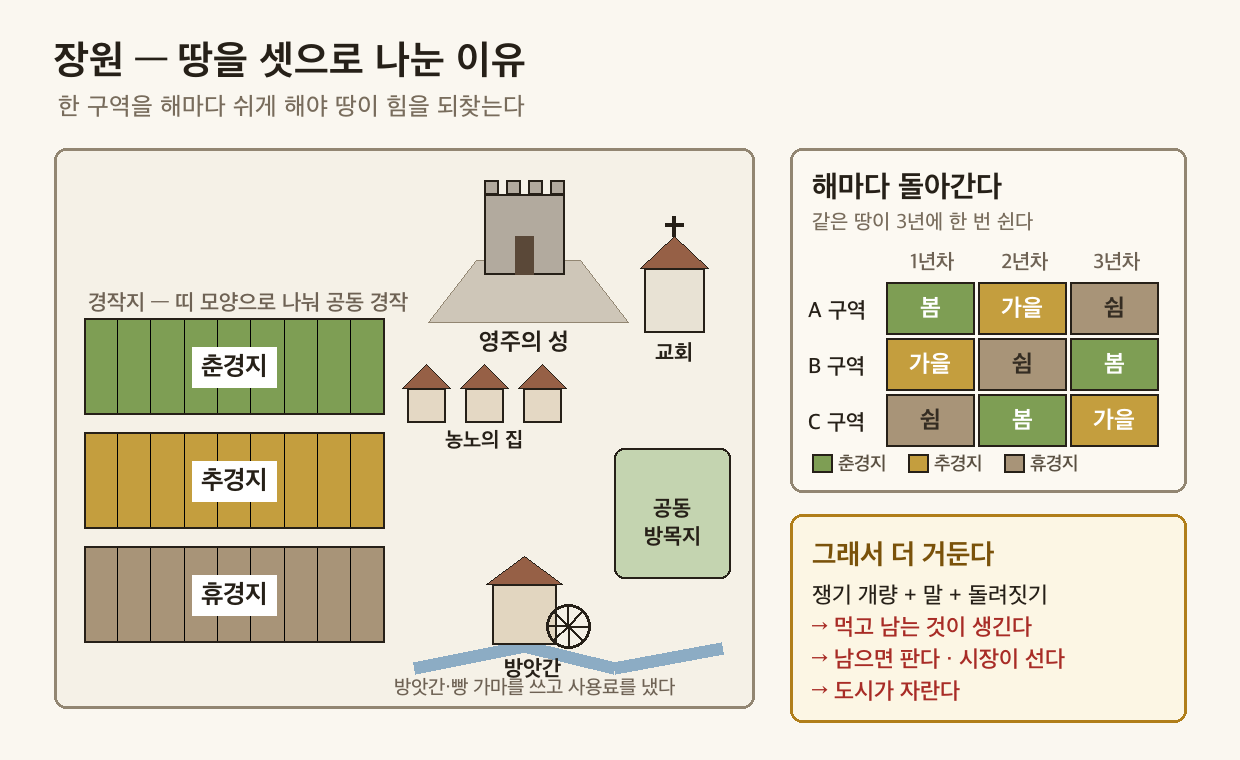
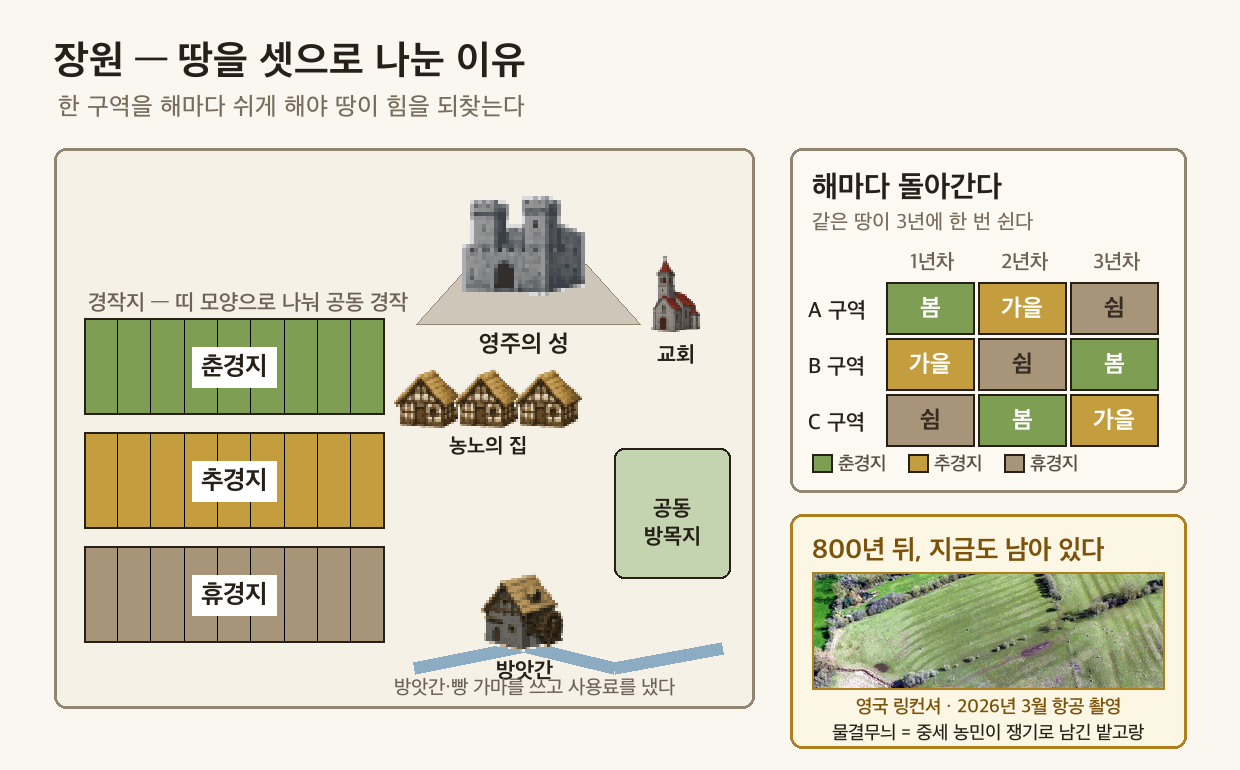
3-3-1 — 도식 4종 B안 전환 + 5단계 한 컷 압축 + 7단계 맥락 보강
천대현 지시 3건을 한 번에 반영.

■ 도식 B안 전환 (건물 4종·관문 3종 신규 생성)
· 이름정리 — 자기 장원의 성을 PIL 자작 → 도트로
· 세 신분 — 인물 3종 s=4→4.5 (세로형이라 폭 확보)
· 네 관문 — 🔴 종전엔 ①③이 같은 'cleric'이라 네 칸이 똑같아 보였다.
  관문마다 다른 그림으로: 아기 안은 수도사 / 신랑신부 / 임종 곁 기도 / 좀비
· 장원 — 성·교회·농가·방앗간을 도트로 교체

■ 5단계 '호흡이 너무 길다' → 한 컷 (천대현)
종전: 이미지 3장 + 인용 3개가 세로로 늘어짐.
· 장원 도식 오른쪽 아래 텍스트 박스를 **밭고랑 사진으로 교체** — 배치도(공간)
  + 3년 순환(시간) + '800년 뒤 지금도 남아 있다'(반전)를 한 장에 담았다.
  사진은 3:1로 크롭(원본 1.61 비율은 캔버스를 넘는다).
· md는 이미지 1장 + 인용 1개로 축약. Shepherd 실물 평면도는 **접기로 보존**
  — 자료를 버리지 않으면서 호흡도 안 늘린다.

■ 7단계 '연결 맥락이 부실하다' (천대현)
· 6→7 다리 신설: '삶이 통째로 교회 안에 있으면 만드는 것도 교회 것이 된다'
  종전 도입은 '문화는 크리스트교 중심으로 자랐다'는 선언이라 근거가 없었다.
· 네 갈래에 '왜'를 한 줄씩 — 학문=신을 아는 것이 가장 높은 앎 /
  건축=신의 집이라 가장 크고 높게 / 문학=기사의 무력에 교회가 씌운 규범
· 🔴 교육 항목의 자기모순 해소 — 제목은 '교회가 감쌌다'인데 본문은
  '교회 간섭에서 벗어나 스스로 운영'이라 어긋났다. 운영(자율)↔내용(신학 중심)을
  분리. 교과서 본문과 날개가 둘 다 맞으므로 그 둘을 갈라 주는 것이 지도 포인트.
· ⚠ '교회가 세운 학문'은 교과서를 넘어선다 → '배우는 것의 중심은 신학'까지가 근거선.

검증: 빈칸 15=정답 15 · act/essay 인덱스 변동 0 · 신규 파일 0

Claude-Session: https://claude.ai/code/session_01WENst2cudxyR6rXxwWSCeM

diff --git a/worksheets/3-3-1_봉건사회성립_개념편.html b/worksheets/3-3-1_봉건사회성립_개념편.html
@@ -88,26 +88,51 @@ blockquote {
    정답 공개 때 틀린 카드는 '진짜 기분'으로 뒤집히므로 표정 변화 자체가 피드백이 된다. */
 .pk-card { position: relative; }
 .pk-card.pk-happy {
-  transform: translateY(-4px);
-  box-shadow: 0 6px 14px rgba(26,122,96,.16);
-  background: linear-gradient(180deg, #fffdf2, #fff);
+  transform: translateY(-10px) scale(1.04);
+  border-color: #e0b13a;
+  box-shadow: 0 12px 22px rgba(200,150,30,.28), 0 0 0 3px rgba(255,214,102,.35);
+  background: linear-gradient(180deg, #fff9e2, #fff);
+  animation: pkHop .5s cubic-bezier(.34,1.56,.64,1);
 }
-.pk-card.pk-happy img { filter: brightness(1.08) saturate(1.15); }
+.pk-card.pk-happy img { filter: brightness(1.16) saturate(1.45) contrast(1.06); transform: scale(1.1); }
 .pk-card.pk-sad {
-  transform: translateY(4px);
-  box-shadow: 0 2px 6px rgba(60,70,90,.10);
-  background: linear-gradient(180deg, #f6f8fc, #fff);
+  transform: translateY(9px) scale(.95) rotate(1.6deg);
+  border-color: #93a3bb;
+  box-shadow: 0 1px 3px rgba(60,70,90,.10);
+  background: linear-gradient(180deg, #eef1f6, #f8fafc);
+  animation: pkSlump .45s ease-out;
 }
-.pk-card.pk-sad img { filter: saturate(.55) brightness(.94) hue-rotate(-8deg); }
+.pk-card.pk-sad img {
+  filter: saturate(.22) brightness(.84) contrast(.92) hue-rotate(-14deg);
+  transform: scale(.9) rotate(-2deg);
+}
+.pk-card.pk-sad .pk-name, .pk-card.pk-sad .pk-sit { opacity: .62; }
+@keyframes pkHop {
+  0%   { transform: translateY(0) scale(1); }
+  45%  { transform: translateY(-20px) scale(1.09); }
+  100% { transform: translateY(-10px) scale(1.04); }
+}
+@keyframes pkSlump {
+  0%   { transform: translateY(0) scale(1) rotate(0); }
+  60%  { transform: translateY(13px) scale(.93) rotate(2.4deg); }
+  100% { transform: translateY(9px) scale(.95) rotate(1.6deg); }
+}
 .pk-card.pk-happy::after, .pk-card.pk-sad::after {
-  position: absolute; top: 6px; right: 8px; font-size: 1.15em; line-height: 1;
+  position: absolute; top: -12px; right: -8px; font-size: 1.9em; line-height: 1;
+  filter: drop-shadow(0 2px 3px rgba(0,0,0,.22));
 }
-.pk-card.pk-happy::after { content: "😀"; }
-.pk-card.pk-sad::after { content: "😢"; }
+.pk-card.pk-happy::after { content: "😀"; animation: pkPop .45s cubic-bezier(.34,1.8,.64,1); }
+.pk-card.pk-sad::after { content: "😢"; animation: pkDrip .45s ease-out; }
+@keyframes pkPop { 0% { transform: scale(0) rotate(-30deg); } 100% { transform: scale(1) rotate(0); } }
+@keyframes pkDrip { 0% { transform: translateY(-10px) scale(.4); opacity: 0; } 100% { transform: none; opacity: 1; } }
 @media (prefers-reduced-motion: reduce) {
-  .pk-card.pk-happy, .pk-card.pk-sad { transform: none; }
+  .pk-card.pk-happy, .pk-card.pk-sad { transform: none; animation: none; }
+  .pk-card.pk-happy::after, .pk-card.pk-sad::after { animation: none; }
 }
-@media print { .pk-card.pk-happy, .pk-card.pk-sad { transform: none; box-shadow: none; } }
+@media print {
+  .pk-card.pk-happy, .pk-card.pk-sad { transform: none; box-shadow: none; animation: none; }
+  .pk-card.pk-happy img, .pk-card.pk-sad img { transform: none; }
+}
 
 .pk-card.pk-ok { border-color: #1a7a60; background: #f2fbf7; }
 .pk-card.pk-no { border-color: #c62c3c; background: #fef5f6; }
@@ -495,17 +520,16 @@ table:has(.ox-group) td:first-child { width: 46px; text-align: center; color: #6
 <h3>🌾 땅을 셋으로 나눈 이유</h3>
 <p>장원의 경작지는 그냥 한 덩어리가 아니었다. 봄에 씨 뿌리는 <strong>춘경지</strong>, 가을에 씨 뿌리는 <strong>추경지</strong>, 그리고 <strong>아무것도 심지 않고 쉬게 두는</strong> 땅으로 나누어 해마다 돌려 가며 지었다. 땅도 쉬어야 힘을 되찾기 때문이다.</p>
 <br>
-<figure class="ws-fig"><img src="images/3-3-1_장원배치.png" alt="장원 배치도와 3포제 — 왼쪽은 장원의 생김새, 오른쪽 표는 같은 땅이 해마다 어떻게 돌아가는지 보여 준다." loading="lazy"><figcaption>장원 배치도와 3포제 — 왼쪽은 장원의 생김새, 오른쪽 표는 같은 땅이 해마다 어떻게 돌아가는지 보여 준다.</figcaption></figure>
+<figure class="ws-fig"><img src="images/3-3-1_장원배치.png" alt="장원의 생김새(왼쪽) · 같은 땅이 3년에 한 번 쉬는 순환(오른쪽 위) · 그 밭고랑이 오늘도 남아 있는 영국 들판(오른쪽 아래·2026년 3월 항공 촬영, 사진: Simon Tomson, geograph.org.uk · CC BY-SA 2.0)." loading="lazy"><figcaption>장원의 생김새(왼쪽) · 같은 땅이 3년에 한 번 쉬는 순환(오른쪽 위) · 그 밭고랑이 오늘도 남아 있는 영국 들판(오른쪽 아래·2026년 3월 항공 촬영, 사진: Simon Tomson, geograph.org.uk · CC BY-SA 2.0).</figcaption></figure>
 <br>
-<figure class="ws-fig"><img src="images/3-3-1_장원배치도_실물.png" alt="100년 전 역사 지도책에 실린 실제 중세 장원 평면도. 세 경작지의 이름이 지도에 그대로 적혀 있다. (William R. Shepherd, Historical Atlas, 1923 · 퍼블릭 도메인)" loading="lazy"><figcaption>100년 전 역사 지도책에 실린 실제 중세 장원 평면도. 세 경작지의 이름이 지도에 그대로 적혀 있다. (William R. Shepherd, Historical Atlas, 1923 · 퍼블릭 도메인)</figcaption></figure>
+<blockquote>🎙 오른쪽 아래 사진, <strong>올해 3월에 찍은 거야.</strong> 물결무늬 보이지? 저게 800년쯤 전 농민이 쟁기로 갈아 놓은 밭고랑이야. 장원도 영주도 농노도 다 사라졌는데 <strong>땅이 아직 기억하고 있는 거지.</strong></blockquote>
+<blockquote>그리고 쟁기 + 말 + 땅 돌려짓기. 이 셋이 겹치니까 <strong>먹고 남는 게 생겼어.</strong> 남으면? 판다. 팔면? 시장이 선다. 시장이 서면? <strong>도시가 자란다.</strong> — 지금은 그냥 농사 이야기 같지만, 이게 나중에 <em>장원을 무너뜨리는</em> 힘이 돼. 몇 차시 뒤에 다시 만날 거야.</blockquote>
 <br>
-<blockquote>🔍 <strong>찾아보기</strong> — 지도 속 글씨는 세로로 누워 있어. 눈으로 따라가면 「Spring Planting」·「Autumn Planting」·「Fallow」 세 덩어리가 나온다. 우리 교과서의 <strong>춘경지·추경지·휴경지</strong>가 바로 저것이다.</blockquote>
+<details class="ws-fold ws-fold-원문"><summary>🔍 진짜 장원 평면도를 보고 싶다면 (눌러서 펼치기)</summary><div class="ws-fold-body">
+<p>100년 전 역사 지도책에 실린 실제 중세 장원 평면도야. 지도 속 글씨는 세로로 누워 있어서, 눈으로 따라가면 「Spring Planting」·「Autumn Planting」·「Fallow」 세 덩어리가 나와. 우리 교과서의 <strong>춘경지·추경지·휴경지</strong>가 바로 저것.</p>
+</div></details>
 <br>
-<figure class="ws-fig"><img src="images/3-3-1_밭고랑항공.jpg" alt="오늘날 영국 링컨셔의 들판. 물결처럼 이어진 줄무늬는 중세 농민이 쟁기로 남긴 밭고랑이다. 2026년 3월 항공 촬영. (사진: Simon Tomson, geograph.org.uk · CC BY-SA 2.0)" loading="lazy"><figcaption>오늘날 영국 링컨셔의 들판. 물결처럼 이어진 줄무늬는 중세 농민이 쟁기로 남긴 밭고랑이다. 2026년 3월 항공 촬영. (사진: Simon Tomson, geograph.org.uk · CC BY-SA 2.0)</figcaption></figure>
-<br>
-<blockquote>🎙 이 사진, <strong>올해 3월에 찍은 거야.</strong> 영국 시골 들판인데 물결무늬가 보이지? 저게 800년쯤 전 중세 농민이 쟁기로 갈아 놓은 밭고랑이야. 장원도 영주도 농노도 다 사라졌는데, <strong>땅이 아직 기억하고 있는 거지.</strong></blockquote>
-<br>
-<blockquote>🎙 쟁기 + 말 + 땅 돌려짓기. 이 셋이 겹치니까 <strong>먹고 남는 게 생겼어.</strong> 남으면? 판다. 팔면? 시장이 선다. 시장이 서면? <strong>도시가 자란다.</strong> — 지금은 그냥 농사 이야기 같지만, 이게 나중에 <em>장원을 무너뜨리는</em> 힘이 돼. 몇 차시 뒤에 다시 만날 거야.</blockquote>
+<figure class="ws-fig"><img src="images/3-3-1_장원배치도_실물.png" alt="William R. Shepherd, Historical Atlas (New York, 1923) · 퍼블릭 도메인" loading="lazy"><figcaption>William R. Shepherd, Historical Atlas (New York, 1923) · 퍼블릭 도메인</figcaption></figure>
 <br>
 <h2>📖 6단계: 태어나서 죽을 때까지, 교회 안에서</h2>
 <blockquote>📕 <strong>교과서 92쪽 「종교와 손잡고」</strong> 펴고 채우기 · 배정 시간 <strong>5분</strong></blockquote>
@@ -518,14 +542,16 @@ table:has(.ox-group) td:first-child { width: 46px; text-align: center; color: #6
 <br>
 <h2>📖 7단계: 교회가 감싼 문화</h2>
 <blockquote>📕 <strong>교과서 93쪽</strong> 펴고 채우기 · 배정 시간 <strong>10분</strong></blockquote>
-<p>중세 서유럽의 문화는 크리스트교를 중심으로 자랐다. <strong>학문·교육·건축·문학</strong> 네 갈래가 모두 한 중심에서 뻗어 나온다.</p>
+<p>6단계에서 본 건 <strong>삶</strong>이 교회를 통과한다는 것이었다. 그런데 삶이 통째로 교회 안에 있으면, 그 사람들이 <strong>만드는 것</strong>도 교회 것이 된다. 무엇을 파고들지, 무엇을 짓고 무엇을 노래할지가 다 거기서 정해졌다.</p>
+<p>중세 서유럽의 문화는 그래서 크리스트교를 중심으로 자랐다. <strong>학문·교육·건축·문학</strong> 네 갈래가 모두 한 중심에서 뻗어 나온다.</p>
 <br>
 <figure class="ws-fig"><img src="images/3-3-1_교회문화.png" alt="중세 문화는 교회가 감쌌다 — 크리스트교를 중심으로 학문·교육·건축·문학 네 갈래가 뻗어 나온다. 왼쪽 위, 이슬람 세계를 거쳐 들어온 아리스토텔레스 철학이 학문 갈래로 합류하는 화살표에 주목할 것." loading="lazy"><figcaption>중세 문화는 교회가 감쌌다 — 크리스트교를 중심으로 학문·교육·건축·문학 네 갈래가 뻗어 나온다. 왼쪽 위, 이슬람 세계를 거쳐 들어온 아리스토텔레스 철학이 학문 갈래로 합류하는 화살표에 주목할 것.</figcaption></figure>
 <br>
-<p><strong>학문</strong> — 중심은 ⑫<input type="text" class="blank-input" data-answer="신학" data-id="12" style="width:60px" placeholder="">이었다. 여기에 그리스 철학자 <strong>아리스토텔레스</strong>의 철학이 전해지면서, 신앙과 이성의 조화를 강조한 ⑬<input type="text" class="blank-input" data-answer="스콜라 철학" data-id="13" style="width:116px" placeholder="">이 유행했다(토마스 아퀴나스 『신학 대전』).</p>
-<p><strong>교육</strong> — 12세기 이후 유럽 곳곳에 <strong>대학</strong>이 세워졌다. 교회나 영주의 간섭에서 벗어나 <strong>스스로 운영</strong>되었다.</p>
-<p><strong>건축</strong> — 11세기의 ⑭<input type="text" class="blank-input" data-answer="로마네스크" data-id="14" style="width:100px" placeholder=""> 양식, 12세기 이후의 ⑮<input type="text" class="blank-input" data-answer="고딕" data-id="15" style="width:60px" placeholder=""> 양식. 아래 사진 두 장으로 직접 비교한다.</p>
-<p><strong>문학</strong> — 『아서왕 이야기』·『롤랑의 노래』 같은 <strong>기사도 문학</strong>.</p>
+<p><strong>학문</strong> — 중심은 ⑫<input type="text" class="blank-input" data-answer="신학" data-id="12" style="width:60px" placeholder="">이었다. <em>신을 아는 것이 가장 높은 앎</em>이라고 여겼기 때문이다. 여기에 그리스 철학자 <strong>아리스토텔레스</strong>의 철학이 전해지면서, 신앙과 이성의 조화를 강조한 ⑬<input type="text" class="blank-input" data-answer="스콜라 철학" data-id="13" style="width:116px" placeholder="">이 유행했다(토마스 아퀴나스 『신학 대전』).</p>
+<p><strong>교육</strong> — 12세기 이후 유럽 곳곳에 <strong>대학</strong>이 세워졌다. 배우는 것은 신학·법학·의학이었고, 운영은 교회나 영주의 간섭 없이 <strong>스스로</strong> 했다.</p>
+<blockquote>⚠ 여기서 헷갈리지 말 것 — <strong>운영은 자율, 배우는 것은 신학이 중심.</strong> 대학은 누구 밑에 있지 않았지만, 그 안에서 가장 높은 학문은 여전히 신학이었다.</blockquote>
+<p><strong>건축</strong> — <strong>신의 집</strong>을 짓는 일이라 마을에서 가장 크고 높게 지었다. 11세기의 ⑭<input type="text" class="blank-input" data-answer="로마네스크" data-id="14" style="width:100px" placeholder=""> 양식, 12세기 이후의 ⑮<input type="text" class="blank-input" data-answer="고딕" data-id="15" style="width:60px" placeholder=""> 양식. 아래 사진 두 장으로 직접 비교한다.</p>
+<p><strong>문학</strong> — 『아서왕 이야기』·『롤랑의 노래』 같은 <strong>기사도 문학</strong>. 싸우는 것이 일인 기사에게 <em>약자를 지켜라·신께 충성하라</em>는 규범을 씌운 것이 기사도다.</p>
 <br>
 <blockquote>🎙 <strong>아리스토텔레스, 어디서 들어 봤지?</strong> 맞아, 고대 그리스 사람이야(2단원). 그런데 그 철학이 어떻게 천 년도 더 지나서 중세 유럽에 "전해"졌을까? — 서유럽이 잊고 있던 그리스 책들을 <strong>이슬람 세계가 번역해서 간직하고 있었거든.</strong> 지난 시간에 배운 이슬람 세계(Ⅲ-2-3)가 여기서 다시 등장하는 거야. 유럽사와 서아시아사가 따로 노는 게 아니라는 증거.</blockquote>
 <br>

diff --git a/worksheets/3-3-1_봉건사회성립_개념편_복습용.html b/worksheets/3-3-1_봉건사회성립_개념편_복습용.html
@@ -88,26 +88,51 @@ blockquote {
    정답 공개 때 틀린 카드는 '진짜 기분'으로 뒤집히므로 표정 변화 자체가 피드백이 된다. */
 .pk-card { position: relative; }
 .pk-card.pk-happy {
-  transform: translateY(-4px);
-  box-shadow: 0 6px 14px rgba(26,122,96,.16);
-  background: linear-gradient(180deg, #fffdf2, #fff);
+  transform: translateY(-10px) scale(1.04);
+  border-color: #e0b13a;
+  box-shadow: 0 12px 22px rgba(200,150,30,.28), 0 0 0 3px rgba(255,214,102,.35);
+  background: linear-gradient(180deg, #fff9e2, #fff);
+  animation: pkHop .5s cubic-bezier(.34,1.56,.64,1);
 }
-.pk-card.pk-happy img { filter: brightness(1.08) saturate(1.15); }
+.pk-card.pk-happy img { filter: brightness(1.16) saturate(1.45) contrast(1.06); transform: scale(1.1); }
 .pk-card.pk-sad {
-  transform: translateY(4px);
-  box-shadow: 0 2px 6px rgba(60,70,90,.10);
-  background: linear-gradient(180deg, #f6f8fc, #fff);
+  transform: translateY(9px) scale(.95) rotate(1.6deg);
+  border-color: #93a3bb;
+  box-shadow: 0 1px 3px rgba(60,70,90,.10);
+  background: linear-gradient(180deg, #eef1f6, #f8fafc);
+  animation: pkSlump .45s ease-out;
 }
-.pk-card.pk-sad img { filter: saturate(.55) brightness(.94) hue-rotate(-8deg); }
+.pk-card.pk-sad img {
+  filter: saturate(.22) brightness(.84) contrast(.92) hue-rotate(-14deg);
+  transform: scale(.9) rotate(-2deg);
+}
+.pk-card.pk-sad .pk-name, .pk-card.pk-sad .pk-sit { opacity: .62; }
+@keyframes pkHop {
+  0%   { transform: translateY(0) scale(1); }
+  45%  { transform: translateY(-20px) scale(1.09); }
+  100% { transform: translateY(-10px) scale(1.04); }
+}
+@keyframes pkSlump {
+  0%   { transform: translateY(0) scale(1) rotate(0); }
+  60%  { transform: translateY(13px) scale(.93) rotate(2.4deg); }
+  100% { transform: translateY(9px) scale(.95) rotate(1.6deg); }
+}
 .pk-card.pk-happy::after, .pk-card.pk-sad::after {
-  position: absolute; top: 6px; right: 8px; font-size: 1.15em; line-height: 1;
+  position: absolute; top: -12px; right: -8px; font-size: 1.9em; line-height: 1;
+  filter: drop-shadow(0 2px 3px rgba(0,0,0,.22));
 }
-.pk-card.pk-happy::after { content: "😀"; }
-.pk-card.pk-sad::after { content: "😢"; }
+.pk-card.pk-happy::after { content: "😀"; animation: pkPop .45s cubic-bezier(.34,1.8,.64,1); }
+.pk-card.pk-sad::after { content: "😢"; animation: pkDrip .45s ease-out; }
+@keyframes pkPop { 0% { transform: scale(0) rotate(-30deg); } 100% { transform: scale(1) rotate(0); } }
+@keyframes pkDrip { 0% { transform: translateY(-10px) scale(.4); opacity: 0; } 100% { transform: none; opacity: 1; } }
 @media (prefers-reduced-motion: reduce) {
-  .pk-card.pk-happy, .pk-card.pk-sad { transform: none; }
+  .pk-card.pk-happy, .pk-card.pk-sad { transform: none; animation: none; }
+  .pk-card.pk-happy::after, .pk-card.pk-sad::after { animation: none; }
 }
-@media print { .pk-card.pk-happy, .pk-card.pk-sad { transform: none; box-shadow: none; } }
+@media print {
+  .pk-card.pk-happy, .pk-card.pk-sad { transform: none; box-shadow: none; animation: none; }
+  .pk-card.pk-happy img, .pk-card.pk-sad img { transform: none; }
+}
 
 .pk-card.pk-ok { border-color: #1a7a60; background: #f2fbf7; }
 .pk-card.pk-no { border-color: #c62c3c; background: #fef5f6; }
@@ -495,17 +520,16 @@ table:has(.ox-group) td:first-child { width: 46px; text-align: center; color: #6
 <h3>🌾 땅을 셋으로 나눈 이유</h3>
 <p>장원의 경작지는 그냥 한 덩어리가 아니었다. 봄에 씨 뿌리는 <strong>춘경지</strong>, 가을에 씨 뿌리는 <strong>추경지</strong>, 그리고 <strong>아무것도 심지 않고 쉬게 두는</strong> 땅으로 나누어 해마다 돌려 가며 지었다. 땅도 쉬어야 힘을 되찾기 때문이다.</p>
 <br>
-<figure class="ws-fig"><img src="images/3-3-1_장원배치.png" alt="장원 배치도와 3포제 — 왼쪽은 장원의 생김새, 오른쪽 표는 같은 땅이 해마다 어떻게 돌아가는지 보여 준다." loading="lazy"><figcaption>장원 배치도와 3포제 — 왼쪽은 장원의 생김새, 오른쪽 표는 같은 땅이 해마다 어떻게 돌아가는지 보여 준다.</figcaption></figure>
+<figure class="ws-fig"><img src="images/3-3-1_장원배치.png" alt="장원의 생김새(왼쪽) · 같은 땅이 3년에 한 번 쉬는 순환(오른쪽 위) · 그 밭고랑이 오늘도 남아 있는 영국 들판(오른쪽 아래·2026년 3월 항공 촬영, 사진: Simon Tomson, geograph.org.uk · CC BY-SA 2.0)." loading="lazy"><figcaption>장원의 생김새(왼쪽) · 같은 땅이 3년에 한 번 쉬는 순환(오른쪽 위) · 그 밭고랑이 오늘도 남아 있는 영국 들판(오른쪽 아래·2026년 3월 항공 촬영, 사진: Simon Tomson, geograph.org.uk · CC BY-SA 2.0).</figcaption></figure>
 <br>
-<figure class="ws-fig"><img src="images/3-3-1_장원배치도_실물.png" alt="100년 전 역사 지도책에 실린 실제 중세 장원 평면도. 세 경작지의 이름이 지도에 그대로 적혀 있다. (William R. Shepherd, Historical Atlas, 1923 · 퍼블릭 도메인)" loading="lazy"><figcaption>100년 전 역사 지도책에 실린 실제 중세 장원 평면도. 세 경작지의 이름이 지도에 그대로 적혀 있다. (William R. Shepherd, Historical Atlas, 1923 · 퍼블릭 도메인)</figcaption></figure>
+<blockquote>🎙 오른쪽 아래 사진, <strong>올해 3월에 찍은 거야.</strong> 물결무늬 보이지? 저게 800년쯤 전 농민이 쟁기로 갈아 놓은 밭고랑이야. 장원도 영주도 농노도 다 사라졌는데 <strong>땅이 아직 기억하고 있는 거지.</strong></blockquote>
+<blockquote>그리고 쟁기 + 말 + 땅 돌려짓기. 이 셋이 겹치니까 <strong>먹고 남는 게 생겼어.</strong> 남으면? 판다. 팔면? 시장이 선다. 시장이 서면? <strong>도시가 자란다.</strong> — 지금은 그냥 농사 이야기 같지만, 이게 나중에 <em>장원을 무너뜨리는</em> 힘이 돼. 몇 차시 뒤에 다시 만날 거야.</blockquote>
 <br>
-<blockquote>🔍 <strong>찾아보기</strong> — 지도 속 글씨는 세로로 누워 있어. 눈으로 따라가면 「Spring Planting」·「Autumn Planting」·「Fallow」 세 덩어리가 나온다. 우리 교과서의 <strong>춘경지·추경지·휴경지</strong>가 바로 저것이다.</blockquote>
+<details class="ws-fold ws-fold-원문"><summary>🔍 진짜 장원 평면도를 보고 싶다면 (눌러서 펼치기)</summary><div class="ws-fold-body">
+<p>100년 전 역사 지도책에 실린 실제 중세 장원 평면도야. 지도 속 글씨는 세로로 누워 있어서, 눈으로 따라가면 「Spring Planting」·「Autumn Planting」·「Fallow」 세 덩어리가 나와. 우리 교과서의 <strong>춘경지·추경지·휴경지</strong>가 바로 저것.</p>
+</div></details>
 <br>
-<figure class="ws-fig"><img src="images/3-3-1_밭고랑항공.jpg" alt="오늘날 영국 링컨셔의 들판. 물결처럼 이어진 줄무늬는 중세 농민이 쟁기로 남긴 밭고랑이다. 2026년 3월 항공 촬영. (사진: Simon Tomson, geograph.org.uk · CC BY-SA 2.0)" loading="lazy"><figcaption>오늘날 영국 링컨셔의 들판. 물결처럼 이어진 줄무늬는 중세 농민이 쟁기로 남긴 밭고랑이다. 2026년 3월 항공 촬영. (사진: Simon Tomson, geograph.org.uk · CC BY-SA 2.0)</figcaption></figure>
-<br>
-<blockquote>🎙 이 사진, <strong>올해 3월에 찍은 거야.</strong> 영국 시골 들판인데 물결무늬가 보이지? 저게 800년쯤 전 중세 농민이 쟁기로 갈아 놓은 밭고랑이야. 장원도 영주도 농노도 다 사라졌는데, <strong>땅이 아직 기억하고 있는 거지.</strong></blockquote>
-<br>
-<blockquote>🎙 쟁기 + 말 + 땅 돌려짓기. 이 셋이 겹치니까 <strong>먹고 남는 게 생겼어.</strong> 남으면? 판다. 팔면? 시장이 선다. 시장이 서면? <strong>도시가 자란다.</strong> — 지금은 그냥 농사 이야기 같지만, 이게 나중에 <em>장원을 무너뜨리는</em> 힘이 돼. 몇 차시 뒤에 다시 만날 거야.</blockquote>
+<figure class="ws-fig"><img src="images/3-3-1_장원배치도_실물.png" alt="William R. Shepherd, Historical Atlas (New York, 1923) · 퍼블릭 도메인" loading="lazy"><figcaption>William R. Shepherd, Historical Atlas (New York, 1923) · 퍼블릭 도메인</figcaption></figure>
 <br>
 <h2>📖 6단계: 태어나서 죽을 때까지, 교회 안에서</h2>
 <blockquote>📕 <strong>교과서 92쪽 「종교와 손잡고」</strong> 펴고 채우기 · 배정 시간 <strong>5분</strong></blockquote>
@@ -518,14 +542,16 @@ table:has(.ox-group) td:first-child { width: 46px; text-align: center; color: #6
 <br>
 <h2>📖 7단계: 교회가 감싼 문화</h2>
 <blockquote>📕 <strong>교과서 93쪽</strong> 펴고 채우기 · 배정 시간 <strong>10분</strong></blockquote>
-<p>중세 서유럽의 문화는 크리스트교를 중심으로 자랐다. <strong>학문·교육·건축·문학</strong> 네 갈래가 모두 한 중심에서 뻗어 나온다.</p>
+<p>6단계에서 본 건 <strong>삶</strong>이 교회를 통과한다는 것이었다. 그런데 삶이 통째로 교회 안에 있으면, 그 사람들이 <strong>만드는 것</strong>도 교회 것이 된다. 무엇을 파고들지, 무엇을 짓고 무엇을 노래할지가 다 거기서 정해졌다.</p>
+<p>중세 서유럽의 문화는 그래서 크리스트교를 중심으로 자랐다. <strong>학문·교육·건축·문학</strong> 네 갈래가 모두 한 중심에서 뻗어 나온다.</p>
 <br>
 <figure class="ws-fig"><img src="images/3-3-1_교회문화.png" alt="중세 문화는 교회가 감쌌다 — 크리스트교를 중심으로 학문·교육·건축·문학 네 갈래가 뻗어 나온다. 왼쪽 위, 이슬람 세계를 거쳐 들어온 아리스토텔레스 철학이 학문 갈래로 합류하는 화살표에 주목할 것." loading="lazy"><figcaption>중세 문화는 교회가 감쌌다 — 크리스트교를 중심으로 학문·교육·건축·문학 네 갈래가 뻗어 나온다. 왼쪽 위, 이슬람 세계를 거쳐 들어온 아리스토텔레스 철학이 학문 갈래로 합류하는 화살표에 주목할 것.</figcaption></figure>
 <br>
-<p><strong>학문</strong> — 중심은 ⑫<input type="text" class="blank-input" data-answer="신학" data-id="12" style="width:60px" placeholder="">이었다. 여기에 그리스 철학자 <strong>아리스토텔레스</strong>의 철학이 전해지면서, 신앙과 이성의 조화를 강조한 ⑬<input type="text" class="blank-input" data-answer="스콜라 철학" data-id="13" style="width:116px" placeholder="">이 유행했다(토마스 아퀴나스 『신학 대전』).</p>
-<p><strong>교육</strong> — 12세기 이후 유럽 곳곳에 <strong>대학</strong>이 세워졌다. 교회나 영주의 간섭에서 벗어나 <strong>스스로 운영</strong>되었다.</p>
-<p><strong>건축</strong> — 11세기의 ⑭<input type="text" class="blank-input" data-answer="로마네스크" data-id="14" style="width:100px" placeholder=""> 양식, 12세기 이후의 ⑮<input type="text" class="blank-input" data-answer="고딕" data-id="15" style="width:60px" placeholder=""> 양식. 아래 사진 두 장으로 직접 비교한다.</p>
-<p><strong>문학</strong> — 『아서왕 이야기』·『롤랑의 노래』 같은 <strong>기사도 문학</strong>.</p>
+<p><strong>학문</strong> — 중심은 ⑫<input type="text" class="blank-input" data-answer="신학" data-id="12" style="width:60px" placeholder="">이었다. <em>신을 아는 것이 가장 높은 앎</em>이라고 여겼기 때문이다. 여기에 그리스 철학자 <strong>아리스토텔레스</strong>의 철학이 전해지면서, 신앙과 이성의 조화를 강조한 ⑬<input type="text" class="blank-input" data-answer="스콜라 철학" data-id="13" style="width:116px" placeholder="">이 유행했다(토마스 아퀴나스 『신학 대전』).</p>
+<p><strong>교육</strong> — 12세기 이후 유럽 곳곳에 <strong>대학</strong>이 세워졌다. 배우는 것은 신학·법학·의학이었고, 운영은 교회나 영주의 간섭 없이 <strong>스스로</strong> 했다.</p>
+<blockquote>⚠ 여기서 헷갈리지 말 것 — <strong>운영은 자율, 배우는 것은 신학이 중심.</strong> 대학은 누구 밑에 있지 않았지만, 그 안에서 가장 높은 학문은 여전히 신학이었다.</blockquote>
+<p><strong>건축</strong> — <strong>신의 집</strong>을 짓는 일이라 마을에서 가장 크고 높게 지었다. 11세기의 ⑭<input type="text" class="blank-input" data-answer="로마네스크" data-id="14" style="width:100px" placeholder=""> 양식, 12세기 이후의 ⑮<input type="text" class="blank-input" data-answer="고딕" data-id="15" style="width:60px" placeholder=""> 양식. 아래 사진 두 장으로 직접 비교한다.</p>
+<p><strong>문학</strong> — 『아서왕 이야기』·『롤랑의 노래』 같은 <strong>기사도 문학</strong>. 싸우는 것이 일인 기사에게 <em>약자를 지켜라·신께 충성하라</em>는 규범을 씌운 것이 기사도다.</p>
 <br>
 <blockquote>🎙 <strong>아리스토텔레스, 어디서 들어 봤지?</strong> 맞아, 고대 그리스 사람이야(2단원). 그런데 그 철학이 어떻게 천 년도 더 지나서 중세 유럽에 "전해"졌을까? — 서유럽이 잊고 있던 그리스 책들을 <strong>이슬람 세계가 번역해서 간직하고 있었거든.</strong> 지난 시간에 배운 이슬람 세계(Ⅲ-2-3)가 여기서 다시 등장하는 거야. 유럽사와 서아시아사가 따로 노는 게 아니라는 증거.</blockquote>
 <br>
